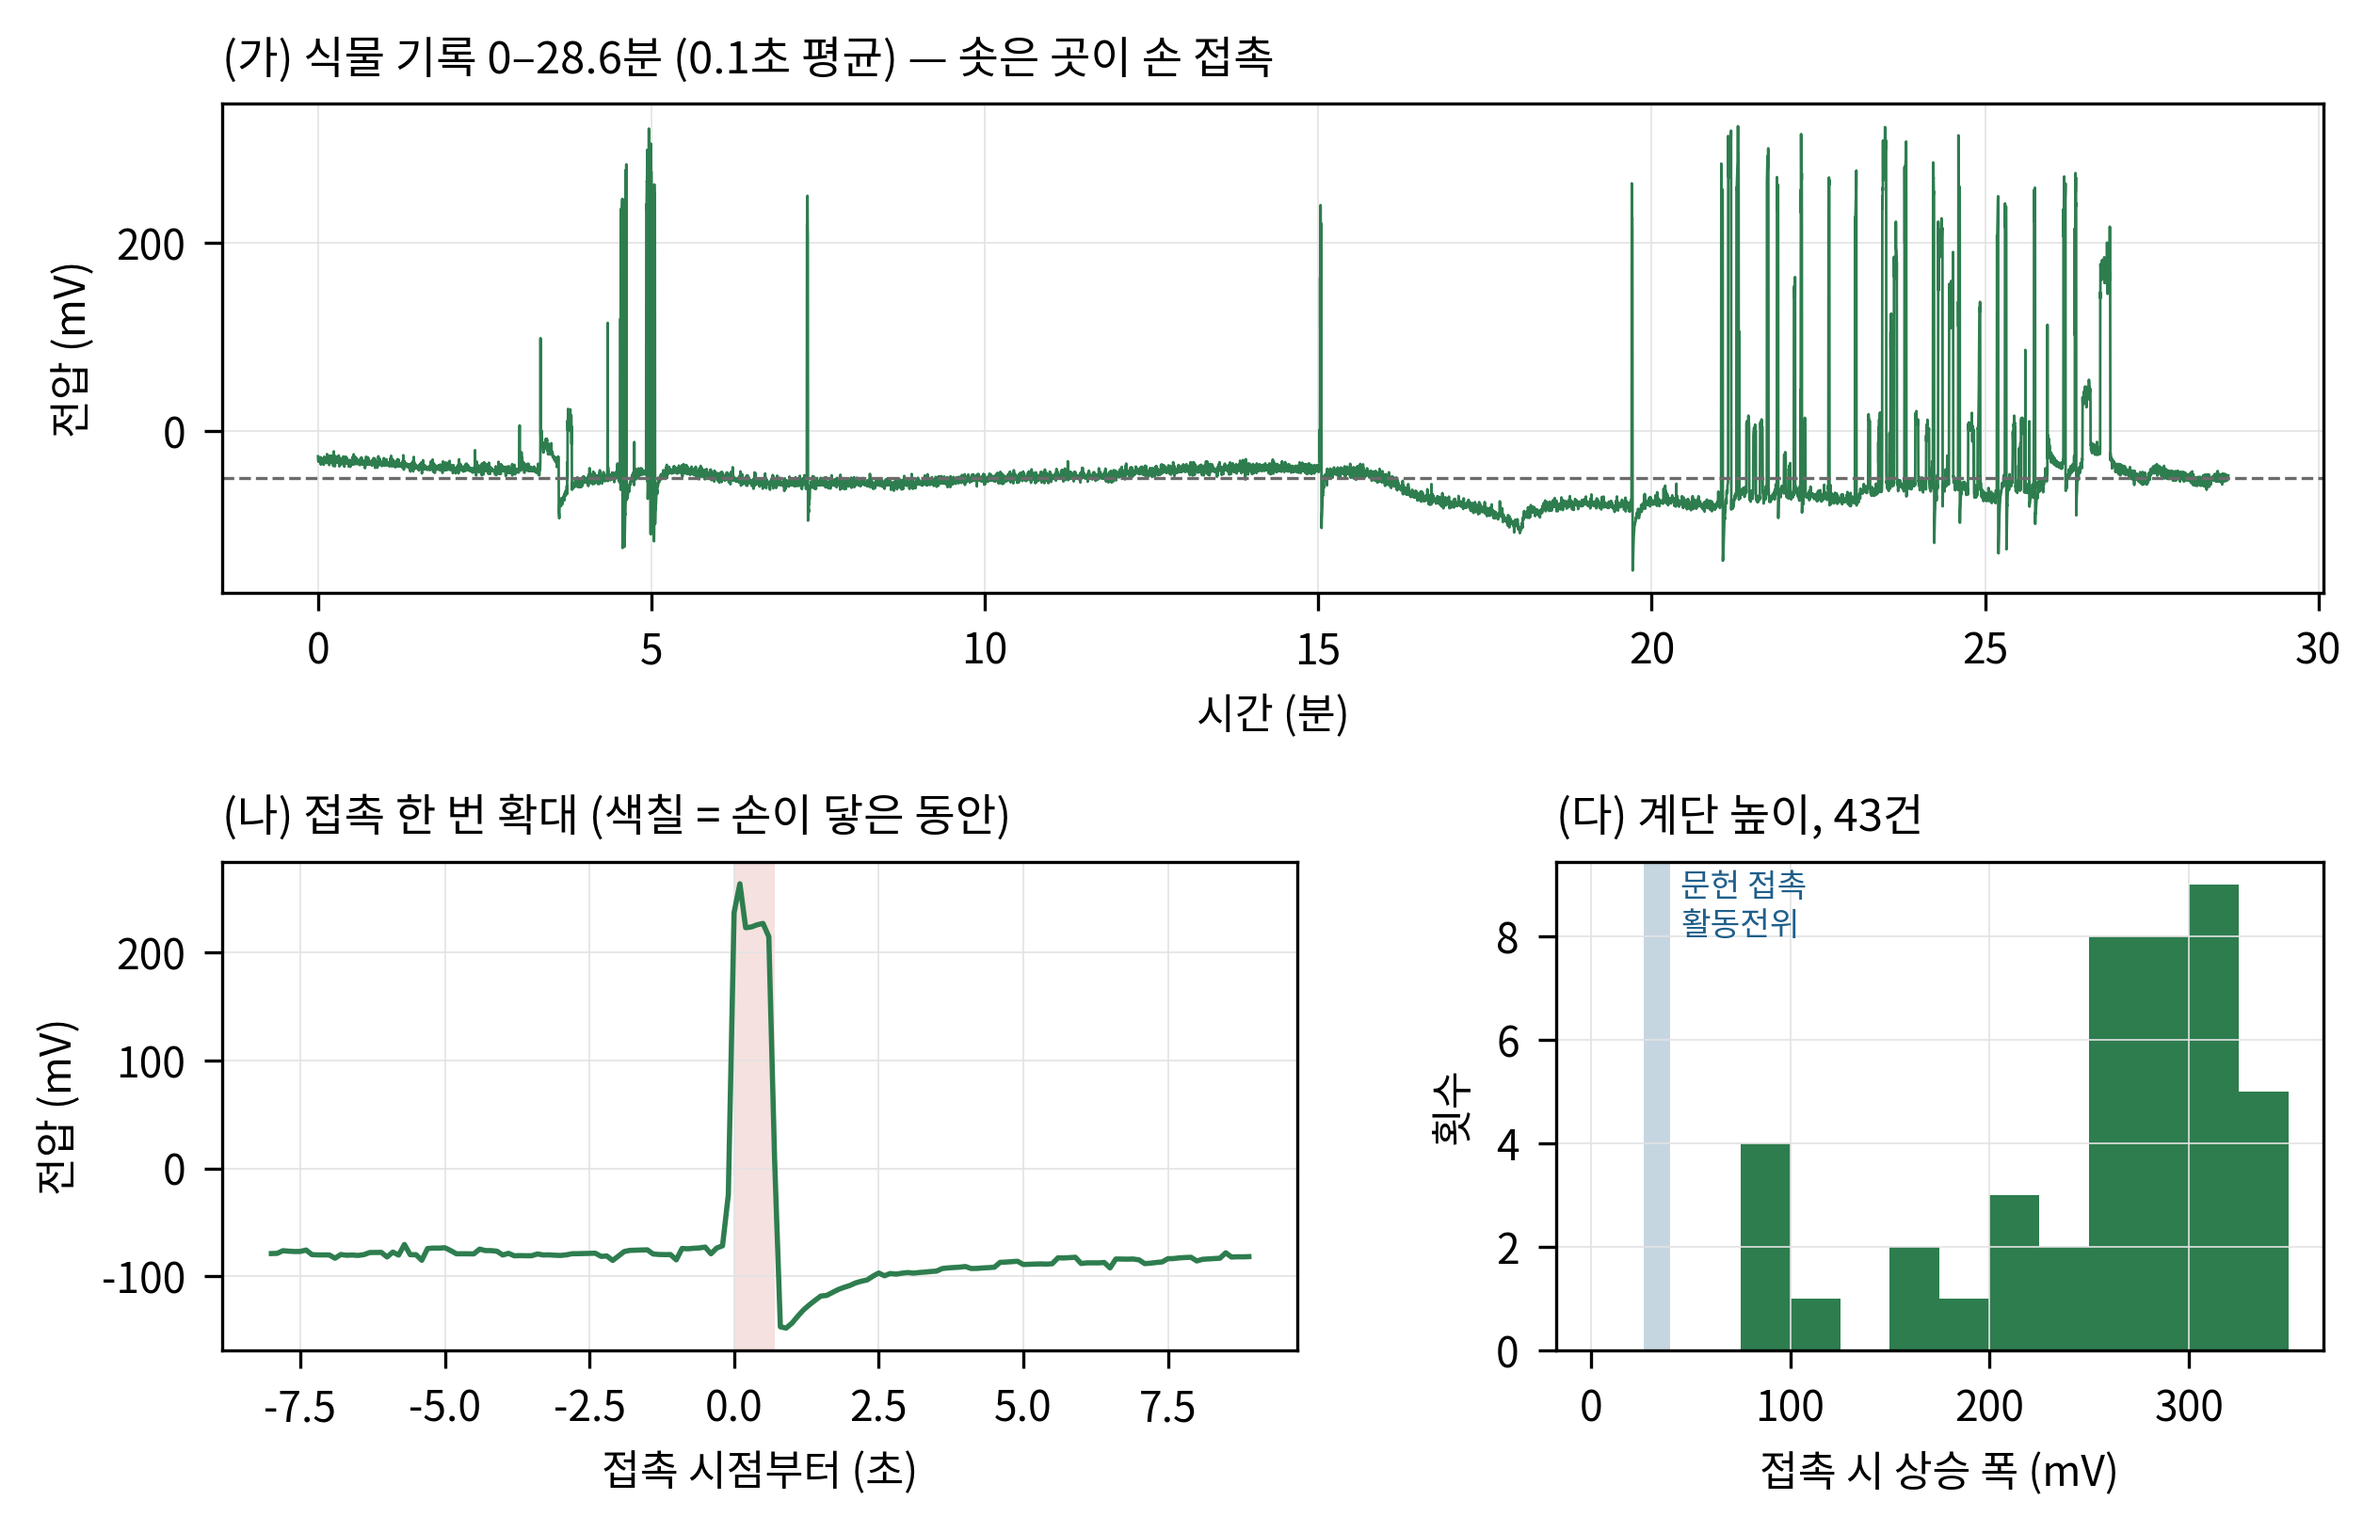
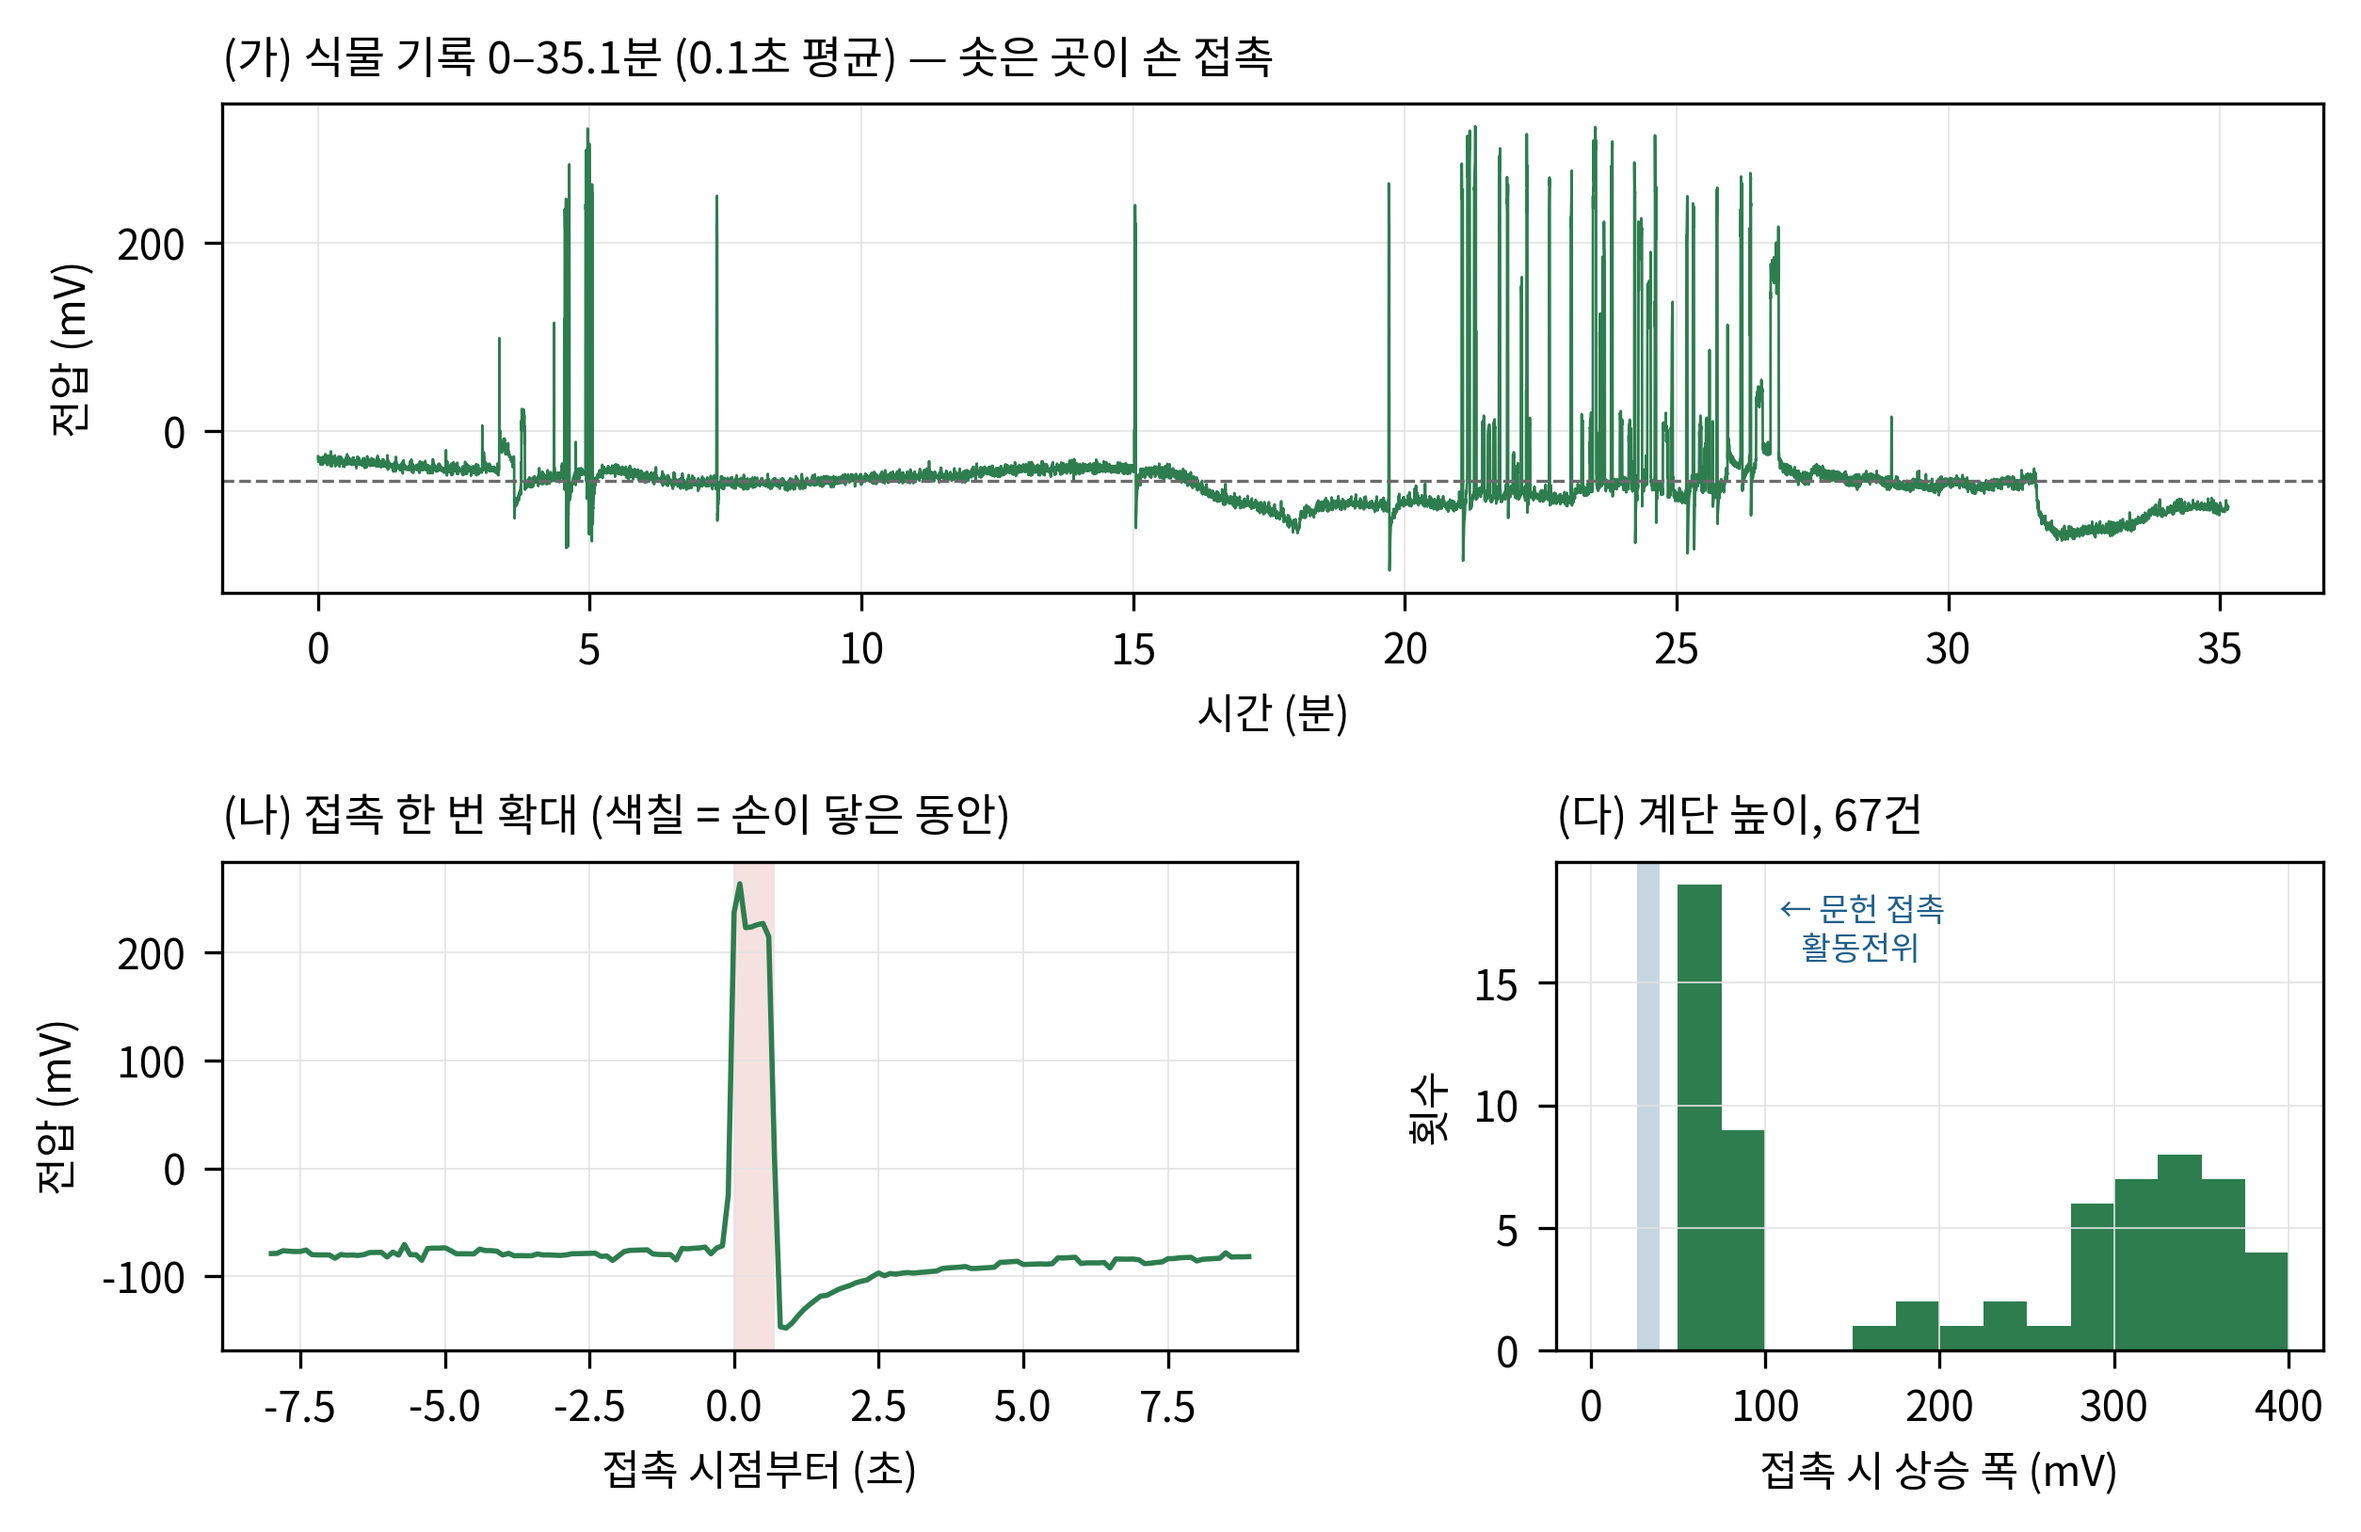
표9를 기준을 밝혀 재계산(67건, 약 70/320 mV 두 무리), 그림5 를 2109초로, hwpx_edit 가 그림도 바꾸게

diff --git a/report/figs.py b/report/figs.py
@@ -28,7 +28,7 @@ plt.rcParams.update({"font.family": "Noto Sans CJK JP", "axes.unicode_minus": Fa
 INK, GRAY, GREEN, RED, BLUE = "#1b1b1b", "#6b6b6b", "#2e7d4f", "#c0392b", "#1f5f8b"
 FS = 250.0
 LIVE = os.path.join(ROOT, "data", "plant", "live_20260915_070020.csv")
-LIVE_SEC = 1719.0          # 0절 ⑰·⑱, 보고서 표의 손 접촉 분석과 같은 구간
+LIVE_SEC = 2109.0          # 표9·Ⅳ-7 과 같은 구간(데이터셋을 만들 때까지 저장된 길이)
 
 
 def save(fig, name):
@@ -173,9 +173,9 @@ def fig_touch():
     b.set_title("(나) 접촉 한 번 확대 (색칠 = 손이 닿은 동안)", loc="left")
     b.set_xlabel("접촉 시점부터 (초)"); b.set_ylabel("전압 (mV)")
     c = fig.add_subplot(gs[1, 1])
-    c.hist(amps["amps_mv"], bins=np.arange(0, 375, 25), color=GREEN, ec="white", lw=0.6)
+    c.hist(amps["amps_mv"], bins=np.arange(0, 425, 25), color=GREEN, ec="white", lw=0.6)
     c.axvspan(26.8, 39.8, color=BLUE, alpha=0.25, lw=0)
-    c.text(45, c.get_ylim()[1] * 0.85, "문헌 접촉\n활동전위", fontsize=6.2, color=BLUE)
+    c.text(108, c.get_ylim()[1] * 0.80, "← 문헌 접촉\n   활동전위", fontsize=6.2, color=BLUE)
     c.set_title(f"(다) 계단 높이, {len(amps['amps_mv'])}건", loc="left")
     c.set_xlabel("접촉 시 상승 폭 (mV)"); c.set_ylabel("횟수")
     for x in (a, b, c):

diff --git a/report/hwpx_edit.py b/report/hwpx_edit.py
@@ -7,6 +7,8 @@ from xml.sax.saxutils import escape
 import xml.dom.minidom
 
 src, dst, spec = sys.argv[1], sys.argv[2], sys.argv[3]
+# 그림 바꾸기: 뒤에 BinData/image5.png=새그림.png 처럼 준다(같은 가로세로비로 맞춰 둘 것)
+bins = dict(a.split("=", 1) for a in sys.argv[4:])
 edits = json.load(open(spec, encoding="utf-8"))
 zin = zipfile.ZipFile(src)
 xml_s = zin.read("Contents/section0.xml").decode("utf-8")
@@ -38,7 +40,9 @@ for e in edits:
 xml.dom.minidom.parseString(xml_s.encode("utf-8"))      # 파싱 확인
 with zipfile.ZipFile(dst, "w") as zout:
     for info in zin.infolist():
-        data = xml_s.encode("utf-8") if info.filename == "Contents/section0.xml" else zin.read(info.filename)
+        data = (xml_s.encode("utf-8") if info.filename == "Contents/section0.xml"
+                else open(bins[info.filename], "rb").read() if info.filename in bins
+                else zin.read(info.filename))
         ct = zipfile.ZIP_STORED if info.filename == "mimetype" else info.compress_type
         zi = zipfile.ZipInfo(info.filename, date_time=info.date_time)
         zi.compress_type = ct; zi.external_attr = info.external_attr

diff --git a/CLAUDE.md b/CLAUDE.md
@@ -546,6 +546,12 @@ preprocess → 738창(정상 686, 자극 52). train `--mode 특징 --task 정상
 식물 기록 `live_20260915_070020.csv` 는 약 2시간(1,864,000 표본)이고 보고서 분석은 앞 2109초다.
 **파이에서 새로 잰 파일은 저장소에 옮겨 커밋해야 공개된 것이다.**
 
+**2026-10-12 표9 재계산.** 예전 표9(43건, 중앙값 275.4 mV)는 검출 기준 기록이 없어 다시 만들 수 없었다.
+Ⅲ장 5절 기준(주변 30초 중앙값 +60 mV, 0.2초 이상)으로 앞 2109초를 다시 세면 **67건이고 두 무리로 나뉜다** —
+약 70 mV(61.6–81.6, 28건, 중앙값 71.4)와 약 320 mV(168.8–390.8, 39건, 중앙값 318.1). 전체 중앙값(245 mV)은
+두 무리 사이 빈 곳이라 쓰지 않는다. 문헌 33.9 mV 대비 "약 2~9배". `report/g_analysis.py`, `report/touch_events.json`.
+분류기 입력 비교: 스펙트로그램(PCA 30) SVM 22/23·RF 12/23 < 특징 17개 SVM 23/23·RF 17/23. 추론 2.8 ms/창(파이 5).
+
 ### ⑲ 전처리가 같은 상태의 이미지를 전부 지우고 있었다
 2026-10-07. `preprocess.py` 가 CSV 하나를 처리할 때마다 **그 상태 폴더의 png 를 전부**
 지웠다("이전 이미지 정리"). 상태마다 파일이 여럿이면 **마지막 파일 것만 남는다.**
